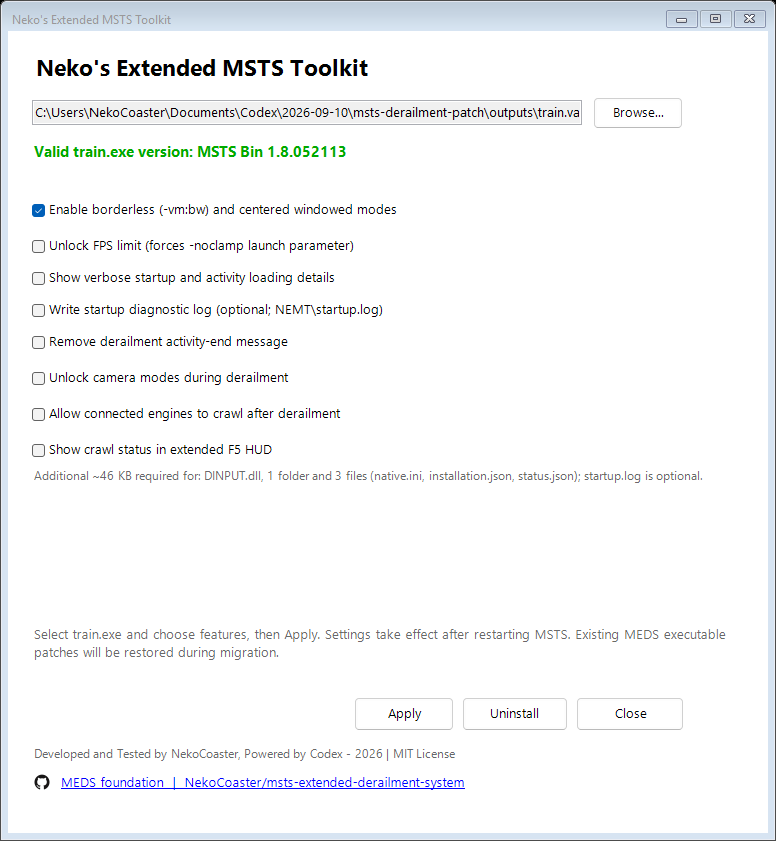
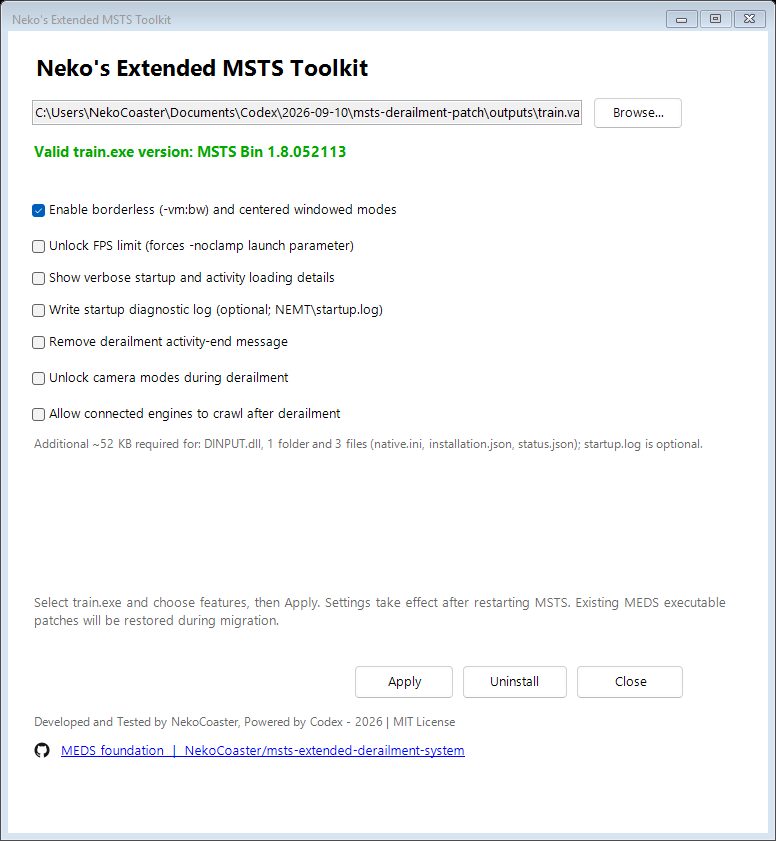
Align crawl HUD and guard startup against missing track sections

diff --git a/runtime/tracks.h b/runtime/tracks.h
@@ -1,0 +1,65 @@
+/* MIT. Conservative text track-database preflight; no game files are changed. */
+#include <stdlib.h>
+#define TRACK_IDS 1048576
+#define TRACK_MASK (TRACK_IDS/8)
+typedef struct {char *p;int bad;char token[512];} TrackText;
+static int track_token(TrackText *t){char *p=t->p;unsigned n=0;int quoted=0;
+ while(*p&&((unsigned char)*p<=32))p++;
+ if(!*p){t->p=p;return 0;}
+ if(*p=='('||*p==')'){t->token[0]=*p++;t->token[1]=0;t->p=p;return 1;}
+ if(*p=='"'){quoted=1;p++;}
+ while(*p&&(quoted?*p!='"':((unsigned char)*p>32&&*p!='('&&*p!=')'))){if(n+1<sizeof(t->token))t->token[n++]=*p;else t->bad=1;p++;}
+ if(quoted){if(*p!='"')t->bad=1;else p++;}t->token[n]=0;t->p=p;return 1;
+}
+static int track_skip(TrackText *t){int depth=1;while(depth&&track_token(t)){if(!strcmp(t->token,"("))depth++;else if(!strcmp(t->token,")"))depth--;if(depth>128)return 0;}return !depth&&!t->bad;}
+static int track_next(TrackText *t){while(track_token(t)){if(!lstrcmpiA(t->token,"_Skip")||!lstrcmpiA(t->token,"_INFO")||!lstrcmpiA(t->token,"Comment")){if(!track_token(t)||strcmp(t->token,"(")||!track_skip(t)){t->bad=1;return 0;}continue;}return 1;}return 0;}
+static int track_number(const char *s,unsigned *value){char *end;unsigned long v;if(*s<'0'||*s>'9')return 0;v=strtoul(s,&end,10);if(*end||v>=TRACK_IDS)return 0;*value=v;return 1;}
+static void track_set(unsigned char *mask,unsigned id){mask[id>>3]|=1<<(id&7);}
+static int track_has(const unsigned char *mask,unsigned id){return mask[id>>3]&(1<<(id&7));}
+static char *track_read(const WCHAR *path){HANDLE f;DWORD n,got,i;unsigned char *raw;char *out=NULL;
+ f=CreateFileW(path,GENERIC_READ,FILE_SHARE_READ,NULL,OPEN_EXISTING,0,NULL);if(f==INVALID_HANDLE_VALUE)return NULL;n=GetFileSize(f,NULL);
+ if(n<32||n>32*1024*1024){CloseHandle(f);return NULL;}raw=HeapAlloc(GetProcessHeap(),0,n+2);if(!raw){CloseHandle(f);return NULL;}
+ if(ReadFile(f,raw,n,&got,NULL)&&got==n){raw[n]=raw[n+1]=0;
+  if(raw[0]==255&&raw[1]==254){if(n%2==0){out=HeapAlloc(GetProcessHeap(),0,n/2+1);if(out){for(i=2;i<n;i+=2)out[(i-2)/2]=raw[i+1]?'?':raw[i];out[(n-2)/2]=0;}}}
+  else{out=(char*)raw;raw=NULL;}
+ }CloseHandle(f);if(raw)HeapFree(GetProcessHeap(),0,raw);
+ if(out&&(strncmp(out,"SIMISA@@@@@@@@@@",16)||!strstr(out,"______"))){HeapFree(GetProcessHeap(),0,out);out=NULL;}return out;
+}
+static int track_definitions(char *text,unsigned char *mask){TrackText t;unsigned id,count=0;memset(&t,0,sizeof(t));t.p=text;
+ while(track_next(&t)){if(lstrcmpiA(t.token,"TrackSection"))continue;
+  if(!track_next(&t)||strcmp(t.token,"(")||!track_next(&t))return 0;
+  if(!lstrcmpiA(t.token,"SectionCurve")){if(!track_next(&t)||strcmp(t.token,"(")||!track_skip(&t)||!track_next(&t))return 0;}
+  if(!track_number(t.token,&id))return 0;track_set(mask,id);count++;
+ }return count&&!t.bad;
+}
+/* Return -1 for unsupported/malformed data, 0 for resolved, 1 for missing. */
+static int track_missing(char *text,const unsigned char *global,const unsigned char *local,unsigned *missing){TrackText t;unsigned count,i,j,id=0,groups=0;int found=0;char *end;memset(&t,0,sizeof(t));t.p=text;
+ while(track_next(&t)){if(lstrcmpiA(t.token,"TrVectorSections"))continue;groups++;
+  if(!track_next(&t)||strcmp(t.token,"(")||!track_next(&t)||!track_number(t.token,&count))return -1;
+  for(i=0;i<count;i++)for(j=0;j<16;j++){if(!track_next(&t))return -1;if(!j){if(!track_number(t.token,&id))return -1;if(!track_has(global,id)&&!track_has(local,id)&&!found){*missing=id;found=1;}}else{strtod(t.token,&end);if(end==t.token||*end)return -1;}}
+  if(!track_next(&t)||strcmp(t.token,")"))return -1;
+ }return t.bad||!groups?-1:found;
+}
+static int track_path(WCHAR *out,const WCHAR *base,const WCHAR *tail){if(wcslen(base)+wcslen(tail)>=MAX_PATH)return 0;wcscpy(out,base);wcscat(out,tail);return 1;}
+static int track_preflight(const WCHAR *base,WCHAR *route,unsigned *missing){WCHAR path[MAX_PATH],directory[MAX_PATH],search[MAX_PATH];WIN32_FIND_DATAW rd,db;HANDLE routes,databases;unsigned char *global,*local;char *text;int result=0,local_ok;
+ global=HeapAlloc(GetProcessHeap(),HEAP_ZERO_MEMORY,TRACK_MASK);local=HeapAlloc(GetProcessHeap(),HEAP_ZERO_MEMORY,TRACK_MASK);if(!global||!local)goto done;
+ if(!track_path(path,base,L"GLOBAL\\tsection.dat")||!(text=track_read(path)))goto done;
+ local_ok=track_definitions(text,global);HeapFree(GetProcessHeap(),0,text);if(!local_ok)goto done;
+ if(!track_path(search,base,L"ROUTES\\*"))goto done;routes=FindFirstFileW(search,&rd);if(routes==INVALID_HANDLE_VALUE)goto done;
+ do{if(!(rd.dwFileAttributes&FILE_ATTRIBUTE_DIRECTORY)||rd.cFileName[0]=='.')continue;
+  if(wcslen(base)+wcslen(rd.cFileName)+20>=MAX_PATH)continue;wcscpy(directory,base);wcscat(directory,L"ROUTES\\");wcscat(directory,rd.cFileName);wcscat(directory,L"\\");
+  memset(local,0,TRACK_MASK);track_path(path,directory,L"tsection.dat");local_ok=1;
+  if(GetFileAttributesW(path)!=INVALID_FILE_ATTRIBUTES){text=track_read(path);if(!text)local_ok=0;else{local_ok=track_definitions(text,local);HeapFree(GetProcessHeap(),0,text);}}
+  if(!local_ok)continue;track_path(search,directory,L"*.tdb");databases=FindFirstFileW(search,&db);if(databases==INVALID_HANDLE_VALUE)continue;
+  do{if(db.dwFileAttributes&FILE_ATTRIBUTE_DIRECTORY)continue;if(!track_path(path,directory,db.cFileName))continue;text=track_read(path);if(!text)continue;
+   result=track_missing(text,global,local,missing)==1;HeapFree(GetProcessHeap(),0,text);if(result){wcscpy(route,rd.cFileName);break;}
+  }while(FindNextFileW(databases,&db));FindClose(databases);if(result)break;
+ }while(FindNextFileW(routes,&rd));FindClose(routes);
+ done:if(global)HeapFree(GetProcessHeap(),0,global);if(local)HeapFree(GetProcessHeap(),0,local);return result;
+}
+static void track_check_startup(const WCHAR *base){WCHAR route[MAX_PATH],message[1024];unsigned missing;
+ if(!track_preflight(base,route,&missing))return;
+ if(!lstrcmpiW(route,L"LGVMed"))swprintf(message,L"Xtracks is required for route %ls. Please refer to the route author's README and install the appropriate Xtracks version.\n\nThe installed track database is missing section %u required by this route. MSTS will now close.",route,missing);
+ else swprintf(message,L"Route %ls requires track definitions missing from this installation (section %u).\n\nPlease refer to the route author's README and install its required track add-ons and compatible global tsection.dat. MSTS will now close.",route,missing);
+ MessageBoxW(NULL,message,L"NEMT - Missing route track dependency",MB_OK|MB_ICONERROR|MB_SETFOREGROUND);ExitProcess(1);
+}

diff --git a/tests/hud.c b/tests/hud.c
@@ -3,19 +3,21 @@ static unsigned char globals[0x100000];
 #define G(a) ((U)globals+(a)-0x7a0000)
 #include "../runtime/loader.c"
 static int draws,ends;
+static int __fastcall fake_width(void *font,const WCHAR *text){return wcslen(text)*6;}
 static int __fastcall fake_height(void *font){return 12;}
-static U __fastcall fake_draw(void *font,int x,int y,U color,const WCHAR *text){assert(x==168&&y==436+draws*12&&color==0xffffffff&&text[0]);draws++;return 0;}
+static U __fastcall fake_draw(void *font,int x,int y,U color,const WCHAR *text){assert(x==*(int*)G(0x7a8960)-8-fake_width(font,text)&&y==*(int*)G(0x7a8964)-44+(draws%3)*12&&color==0xffffffff&&text[0]);draws++;return 0;}
 static void fake_end(void){ends++;}
 int main(void){char lines[3][160];
  hud_lines(lines);assert(strstr(lines[0],"disabled"));
  crawl_requested=1;hud_lines(lines);assert(strstr(lines[0],"waiting"));
  InitializeCriticalSection(&state_lock);crawl_state_ready=1;enabled=1;strength=10;throttle=.5;direction=-1;applied_dt=.1;
  car_count=3;cars[0].engine=cars[1].engine=1;cars[0].active=1;cars[0].dp[0]=300;cars[0].dp[1]=400;
- hud_lines(lines);assert(strstr(lines[0],"active")&&strstr(lines[0],"5.0 kN"));assert(strstr(lines[1],"50%")&&strstr(lines[1],"reverse"));assert(strstr(lines[2],"1 applying / 2 connected"));
+ hud_lines(lines);assert(strstr(lines[0],"active")&&strstr(lines[0],"-5.0 kN"));assert(strstr(lines[1],"50%")&&strstr(lines[1],"reverse"));assert(strstr(lines[2],"1 applying / 2 connected"));
+ direction=1;hud_lines(lines);assert(strstr(lines[0],": 5.0 kN"));direction=-1;
  *(U*)G(0x7be0f4)=1;hud_lines(lines);assert(strstr(lines[0],"paused")&&strstr(lines[0],"0.0 kN"));assert(strstr(lines[2],"0 applying"));
  *(U*)G(0x7be0f4)=0;blocked=1;hud_lines(lines);assert(strstr(lines[0],"fault")&&strstr(lines[0],"0.0 kN"));
  clear_activity();hud_lines(lines);assert(strstr(lines[2],"0 applying / 0 connected"));
- {U table[16]={0};U font=(U)table;table[6]=(U)fake_height;table[13]=(U)fake_draw;*(U*)G(0x7b64d4)=(U)&font;*(int*)G(0x7a8960)=640;*(int*)G(0x7a8964)=480;hud_end_original=fake_end;
- crawl_hud=1;hud_render_end();assert(draws==3&&ends==1);crawl_hud=0;hud_render_end();assert(draws==3&&ends==2);}
+ {U table[16]={0};U font=(U)table;table[6]=(U)fake_height;table[9]=(U)fake_width;table[13]=(U)fake_draw;*(U*)G(0x7b64d4)=(U)&font;*(int*)G(0x7a8960)=640;*(int*)G(0x7a8964)=480;hud_end_original=fake_end;
+ crawl_hud=1;hud_render_end();assert(draws==3&&ends==1);*(int*)G(0x7a8960)=1920;*(int*)G(0x7a8964)=1080;hud_render_end();assert(draws==6&&ends==2);crawl_hud=0;hud_render_end();assert(draws==6&&ends==3);}
  puts("PASS HUD disabled/waiting/active/paused/fault states, applied force, throttle, reverser, powered membership and activity exit.");return 0;
 }

diff --git a/runtime/hud.h b/runtime/hud.h
@@ -1,6 +1,7 @@
 /* MIT. Add three lines only at the end of the extended white F5 renderer. */
 typedef U (__fastcall *HudDrawFn)(void*,int,int,U,const WCHAR*);
 typedef int (__fastcall *HudHeightFn)(void*);
+typedef int (__fastcall *HudWidthFn)(void*,const WCHAR*);
 static void (*hud_end_original)(void)=(void*)0x6ae6f0;
 static Hook hud_hook;
 static void hud_lines(char lines[3][160]){
@@ -8,6 +9,7 @@ static void hud_lines(char lines[3][160]){
  if(crawl_requested){status="waiting for activity";
   if(crawl_state_ready){EnterCriticalSection(&state_lock);is_paused=paused();status=blocked?"fault":is_paused?"paused":enabled?"active":have_sim?"ready":"armed";boost=strength;t=clamp_throttle(throttle);reverser=direction>0?"forward":direction<0?"reverse":"neutral";
    for(i=0;i<car_count;i++){Car *c=&cars[i];if(c->engine)powered++;if(c->active&&enabled&&!blocked&&!is_paused){applying++;if(applied_dt>0)force+=sqrt(c->dp[0]*c->dp[0]+c->dp[1]*c->dp[1]+c->dp[2]*c->dp[2])/applied_dt;}}
+   if(direction<0&&force>0)force=-force;
    LeaveCriticalSection(&state_lock);
   }
  }
@@ -17,9 +19,9 @@ static void hud_lines(char lines[3][160]){
 }
 static void hud_render_end(void){
  void *font=*(void**)G(0x7b64d4);int screen_height=*(int*)G(0x7a8964),screen_width=*(int*)G(0x7a8960),height,x,y,i;char lines[3][160];WCHAR wide[160];
- if(crawl_hud&&font){HudDrawFn draw=*(HudDrawFn*)(*(U*)font+0x34);HudHeightFn get_height=*(HudHeightFn*)(*(U*)font+0x18);height=get_height(font);
-  if(height>0&&height<100&&screen_height>height*3+10){hud_lines(lines);y=screen_height-height*3-8;x=screen_width/4+8;
-   for(i=0;i<3;i++){wide[0]=0;MultiByteToWideChar(0,0,lines[i],-1,wide,160);draw(font,x,y+i*height,0xffffffff,wide);}
+ if(crawl_hud&&font){HudDrawFn draw=*(HudDrawFn*)(*(U*)font+0x34);HudHeightFn get_height=*(HudHeightFn*)(*(U*)font+0x18);HudWidthFn get_width=*(HudWidthFn*)(*(U*)font+0x24);height=get_height(font);
+  if(height>0&&height<100&&screen_height>height*3+10){hud_lines(lines);y=screen_height-height*3-8;
+   for(i=0;i<3;i++){wide[0]=0;MultiByteToWideChar(0,0,lines[i],-1,wide,160);x=screen_width-8-get_width(font,wide);if(x<8)x=8;draw(font,x,y+i*height,0xffffffff,wide);}
   }
  }
  hud_end_original();

diff --git a/tests/tracks.c b/tests/tracks.c
@@ -1,0 +1,12 @@
+#include <assert.h>
+#include "../runtime/loader.c"
+int main(int argc,char **argv){unsigned char a[TRACK_MASK]={0},b[TRACK_MASK]={0};unsigned missing=0;char *global,*local,*db;WCHAR path[MAX_PATH];
+ assert(track_definitions("_Skip ( TrackSection ( 99 ) ) _INFO ( TrackSection from author ) TrackSection ( 1 SectionSize ( 2 ) )",a));assert(!track_has(a,99));
+ assert(track_definitions("TrackSection ( SectionCurve ( 0 ) 40000 4.5 0 )",b));
+ assert(track_missing("TrVectorSections ( 1 40000 0 0 0 0 0 0 0 0 0 0 0 0 0 0 0 )",a,b,&missing)==0);
+ assert(track_missing("TrVectorSections ( 1 36013 0 0 0 0 0 0 0 0 0 0 0 0 0 0 0 )",a,b,&missing)==1&&missing==36013);
+ assert(track_missing("TrVectorSections ( 1 36013 0 )",a,b,&missing)==-1);
+ assert(track_missing("_Skip ( TrVectorSections ( 1 36013 ) )",a,b,&missing)==-1);
+ if(argc==5){memset(a,0,sizeof(a));memset(b,0,sizeof(b));mbstowcs(path,argv[1],MAX_PATH);global=track_read(path);mbstowcs(path,argv[2],MAX_PATH);local=track_read(path);mbstowcs(path,argv[3],MAX_PATH);db=track_read(path);assert(global&&local&&db);assert(track_definitions(global,a)&&track_definitions(local,b));assert(track_missing(db,a,b,&missing)==atoi(argv[4]));printf("Real route comparison PASS; expected missing=%s, first missing=%u\n",argv[4],missing);}
+ puts("PASS track dependency parsing, dynamic sections, skipped comments, malformed input and missing definitions.");return 0;
+}

diff --git a/runtime/window.h b/runtime/window.h
@@ -70,7 +70,7 @@ static LPSTR WINAPI toolkit_command_line(void){
    slash[1]=0;
    if(wcslen(root)+45<MAX_PATH&&supported_image()){
     /* This runs from the EXE's CRT entry, outside DllMain/loader lock. */
-    read_config();normalized_command_line=HeapAlloc(GetProcessHeap(),0,length+12);
+    read_config();if(config_valid)track_check_startup(root);normalized_command_line=HeapAlloc(GetProcessHeap(),0,length+12);
     if(normalized_command_line){
      normalize_launch(actual,normalized_command_line,config_valid&&unlock_fps);
      if(config_valid)install_startup_hooks();

diff --git a/runtime/loader.c b/runtime/loader.c
@@ -53,6 +53,7 @@ finish:
 #include "crawl.c"
 #include "startup.h"
 #include "hud.h"
+#include "tracks.h"
 #include "window.h"
 static DWORD WINAPI delayed_start(void *unused) {
     DWORD train=0,previous=0,head=0,body=0,owner=0,control=0; float now=0,first=0; int stable=0;

diff --git a/docs/crawl-hud.md b/docs/crawl-hud.md
@@ -1,19 +1,23 @@
 # Crawl status in the extended F5 HUD
 
-Enable **Show crawl status in extended F5 HUD**, Apply with MSTS closed, then restart. Press F5 through the red pages to reach MSTS Bin's white extended display. Three extra lines show state and multiplier, applied thrust in kN, throttle/regulator and reverser, and applying/connected powered-engine counts. The red pages are unchanged.
+Enable **Allow connected engines to crawl after derailment**, Apply with MSTS closed, then restart. The form includes the HUD automatically; there is no separate HUD checkbox. Press F5 through the red pages to reach MSTS Bin's white extended display. Three extra lines show state and multiplier, applied thrust in kN, throttle/regulator and reverser, and applying/connected powered-engine counts. The red pages are unchanged.
 
-Set `ShowCrawlHUD=true` in `[Diagnostics]` for manual configuration. It defaults off, is independent of `WriteStatusJson`, and performs no diagnostic file writes. It can be enabled without crawling, which displays a disabled state. Other states include waiting for activity, armed, ready, active, paused and fault. Added thrust is zero while inactive or paused.
+Set `ShowCrawlHUD=true` in `[Diagnostics]` for manual configuration. The installer enables it with crawling; manual configurations may still disable it. It is independent of `WriteStatusJson`, and performs no diagnostic file writes. It can be enabled without crawling, which displays a disabled state. Other states include waiting for activity, armed, ready, active, paused and fault. Added thrust is zero while inactive or paused.
 
 ## Implementation
 
-`runtime/hud.h` redirects the checked final CALL at `0x60c996` in the white renderer (`0x60997a`), then forwards to original render-state cleanup at `0x6ae6f0`. It uses font global `0x7b64d4`, height method vtable +0x18 and XY drawing method +0x34. Three lines sit near the bottom, starting at one quarter of screen width plus eight pixels to avoid the standard left-side track monitor. User-moved overlays can still overlap them.
+`runtime/hud.h` redirects the checked final CALL at `0x60c996` in the white renderer (`0x60997a`), then forwards to original render-state cleanup at `0x6ae6f0`. It uses font global `0x7b64d4`, height method vtable +0x18 and XY drawing method +0x34. Three lines sit near the bottom, right-aligned with an eight-pixel margin. Each line is measured using the native font width method (vtable +0x24), so alignment follows resolution and text length. User-moved overlays can still overlap them.
 
-The hook snapshots data under the existing crawl lock only after initialization. No polling thread is added. Applied thrust sums the magnitudes of added engine momentum divided by the applied timestep. It is added crawl force, not gravity, collision force or net train force; opposing vectors are not cancelled. Propulsion equations and their timestep cap are unchanged. Activity exit clears membership and eligibility.
+The hook snapshots data under the existing crawl lock only after initialization. No polling thread is added. Applied thrust sums the magnitudes of added engine momentum divided by the applied timestep. It is added crawl force, not gravity, collision force or net train force; opposing vectors are not cancelled. The reverser supplies the displayed sign: reverse is negative, forward is positive; inactive zero remains unsigned. Propulsion equations and their timestep cap are unchanged. Activity exit clears membership and eligibility.
 
 ## Validation
 
-Automated tests cover disabled/waiting/active/paused/fault states, controls, powered membership, force conversion, activity exit, three-line placement at 640×480, hidden-HUD bypass and render-cleanup forwarding.
+Automated tests cover disabled/waiting/active/paused/fault states, controls, powered membership, force conversion, activity exit, three-line placement at 640×480 and 1920×1080, hidden-HUD bypass and render-cleanup forwarding.
 
[2 lines of base64/hex data omitted]
 
 Host checks: inspect white F5 while crawling, pause/resume, end the activity and enter another. Check placement at your usual resolution with your other overlays.
+
+The owner confirmed the earlier white F5 display on the host. The latest right alignment and signed-force changes have automated coverage and still need host visual confirmation.
+
[1 lines of base64/hex data omitted]

diff --git a/docs/track-dependencies.md b/docs/track-dependencies.md
@@ -1,0 +1,25 @@
+# Missing route track definitions
+
+NEMT checks route track databases once during normal startup, before MSTS loads them. If a supported text database references a section absent from both GLOBAL/tsection.dat and the route’s local dynamic definitions, it displays a dialog identifying the route and missing section, then closes MSTS when acknowledged. No Frida attachment is used.
+
+For the known LGVMed directory, the dialog identifies Xtracks based on the author’s requirement provided by the owner: LGVMed 3.0 requires Xtracks 3.10. Other routes receive a generic missing-track-definition warning directing users to their author’s README. A shared global tsection.dat can include multiple track add-ons, so this is not an installed-Xtracks version detector. It does not recommend overwriting a newer global database with an older one.
+
+## Detection and limits
+
+The native preflight runs outside DllMain, after executable/configuration validation, before normal loading. It reads text .tdb files and global/local section definitions; it performs no file writes. ANSI and UTF-16LE text are supported. Compressed, oversized (over 32 MiB), unreadable or unsupported data is skipped rather than guessed at. IDs are bounded below 1,048,576; nested comment blocks and tokens are bounded. Temporary definition masks occupy 256 KiB total and are freed with file buffers after checking.
+
+TrVectorSections contains a count followed by 16 fields per vector section. The first field references the track section. Local dynamic definitions use a SectionCurve block before their ID. _Skip, _INFO and Comment blocks are excluded. A malformed vector group causes the checker to abandon that database without claiming a missing dependency.
+
+This is a targeted safeguard, not a general route validator or crash handler. It does not verify all shape/texture files, minimum add-on versions, road databases, compressed databases or corrupt route data. Having all section IDs does not prove the full Xtracks installation is complete. An unknown route’s missing section cannot reliably identify which package supplies it. The first supported missing dependency stops startup; fix it and restart to discover another.
+
+## Evidence
+
+LGVMed references 544 distinct section IDs. Comparison against the VM’s stock definitions and its local dynamic definitions found 28 missing IDs; all were present in the supplied Xtracks 3.22 global definitions. The native checker found section 39870 first and displayed the Xtracks requirement before MSTS loaded the route. This follows an earlier A/B run where the unprotected installation crashed at train.exe offset 0x002f4c5a both with and without NEMT.
+
+Unit checks exercise dynamic definitions, skipped comments, malformed groups and missing/resolved references. The same native parser is tested against the actual LGVMed text and both supplied global databases. Raw game files, Xtracks files and local backups are excluded from the package.
+
+## VM before/after validation
+
[1 lines of base64/hex data omitted]
+
+LGVMed subsequently generated its terrain buffers and entered the driving scene. A live loading observation showed 20.0% and approximately 11 seconds remaining; completion followed. A content-hash comparison found 464 new terrain buffers and no modified original route files. The untouched route, installation manifest and overwritten-file backups remain local under work/. Xtracks and the generated buffers remain installed in the test copy for further use. MSTS was closed normally after the HUD check.

diff --git a/README.md b/README.md
@@ -2,7 +2,7 @@
 
 A small native toolkit for Microsoft Train Simulator. This first migration brings MEDS's activity-end prevention, camera access and connected-engine crawling into one configurable `DINPUT.dll`.
 
-**Loading and HUD test build:** single-line verbose text now covers startup and activity loading, with terrain-buffer progress and estimated remaining time. An optional [extended F5 HUD](docs/crawl-hud.md) shows crawl controls and applied thrust without diagnostic file writes. See the [loading guide and validation limits](docs/startup.md). The owner validated the earlier startup display; these latest additions still need host validation.
+**Loading and HUD test build:** single-line verbose text now covers startup and activity loading, with terrain-buffer progress and estimated remaining time. An automatically included crawl [extended F5 HUD](docs/crawl-hud.md) shows crawl controls and applied thrust without diagnostic file writes. See the [loading guide and validation limits](docs/startup.md). The owner validated the earlier startup display; the owner has also confirmed terrain generation completed and the F5 HUD was visible. The latest HUD alignment/sign and dependency preflight changes still need host validation.
 
 **Borderless foundation:** native `-vm:bw` support and optional window centering are now included. The owner confirmed activity transitions, Alt+Tab and resolution changes; see the [validation and launch guide](docs/borderless.md). The existing MEDS releases remain unchanged. This is a separate local repository; it has not been published to a new GitHub repository.
 
@@ -42,7 +42,7 @@ CrawlStrength=10
 
 [Diagnostics]
 WriteStatusJson=false
-ShowCrawlHUD=false
+ShowCrawlHUD=true
 ```
 
 Settings take effect after restarting MSTS. Crawling requires `PreventActivityEnd=true`; the form enforces this. Invalid manual configuration prevents feature installation. Missing feature flags default off. Thrust ranges from 0–100×; zero disables added thrust while retaining the selected throttle-dependent collision/animation effects.
@@ -61,3 +61,5 @@ Use **Uninstall** to remove the owned DLL and configuration. The clean executabl
 - [FPS: prefer the existing -noclamp option](docs/miscellaneous/fps.md)
 
 Developed and Tested by NekoCoaster, Powered by Codex — 2026 | [MIT License](LICENSE). See [third-party notices](THIRD-PARTY.md).
+
+NEMT now checks supported text route track databases for missing section definitions before startup. [Dependency checks and limits](docs/track-dependencies.md) explains the Xtracks warning and what it can detect.

diff --git a/docs/startup.md b/docs/startup.md
@@ -64,3 +64,7 @@ Final DLL `6e257dc1f58bba74175acfe5b46fc520fb05754ad4c2379aa8c1adf8b41d09b0` (44
 The logged run had progressed beyond LGVMed's paths before its last observed open, `routes/USA2/Marias.tdb`. That last file is not proof of fault. Post-run comparison found zero added, removed or content-modified route files, so no generated buffers required rollback. NEMT was restored and the test route copy moved out of active Routes into local scratch; the user's original route copy was untouched. Live terrain-percentage/ETA verification remains blocked by this independent startup failure. Inventories, crash events and logs remain local under work/ and are excluded from the release.
 
 After moving the LGVMED test copy out, the final build reached the main menu normally: 346 observed operations, 18 text substitutions, and a closed startup log. The menu was visually inspected and MSTS exited normally.
+
+## Host follow-up
+
+The owner confirmed terrain generation completed successfully and supplied a screenshot showing 46.0% with an estimated five seconds remaining. They identified LGVMed’s documented Xtracks 3.10 requirement and reported that installing Xtracks resolved the host startup crash. The supplied VM comparison package is Xtracks Standard Edition 3.22. These host reports supersede the earlier blocked terrain test, without turning the earlier VM failure into a successful measurement.

diff --git a/docs/native-runtime.md b/docs/native-runtime.md
@@ -49,3 +49,5 @@ The build refreshes the DLL integrity hash. The packager excludes Git metadata a
 ## Loading and HUD modules
 
 The independent startup module now tracks activity loading and native terrain progress; see [loading details](startup.md). The optional [white F5 HUD](crawl-hud.md) is installed during early initialization but reads crawl state only after the existing lock is ready. It uses the native renderer and adds no worker or file output. These modules use the shared checked mutation transaction, retaining whole-image validation.
+
+A read-only [track dependency preflight](track-dependencies.md) runs before the loading hooks, outside DllMain. It uses bounded text parsing and exits with a specific dialog only for a supported database containing unresolved section references.
